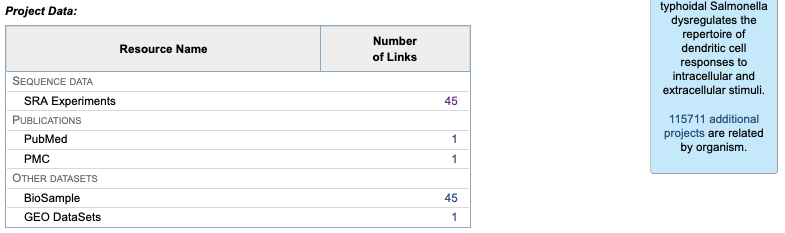
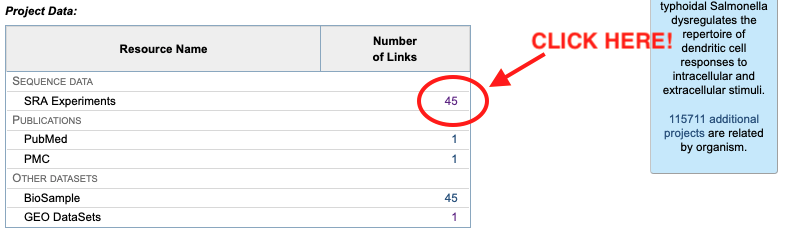
28July_followup2

Changed region(s): [[0.5197, 0.2704, 0.6726, 0.5408], [0.6726, 0.1202, 0.8561, 0.2704]]

diff --git a/README_Part1-3_setup_bulkrnaseq.md b/README_Part1-3_setup_bulkrnaseq.md
@@ -132,7 +132,7 @@ mkdir -p Bulk_rnaseq/{data,scripts,reference/intervals}
 
 2.3. Scroll down and click on BioProject:	**PRJNA437330**  
 
-In **PRJNA437330**, scroll down and click **SRA Experiments** as shown below:
+Now, you'll be sent to NCBI - BioProject **PRJNA437330**: scroll down and click on **SRA Experiments** as shown below:
 
 ![**BioProject - SRA Experiments**](images/bioproject_sra_1.png)  
   
